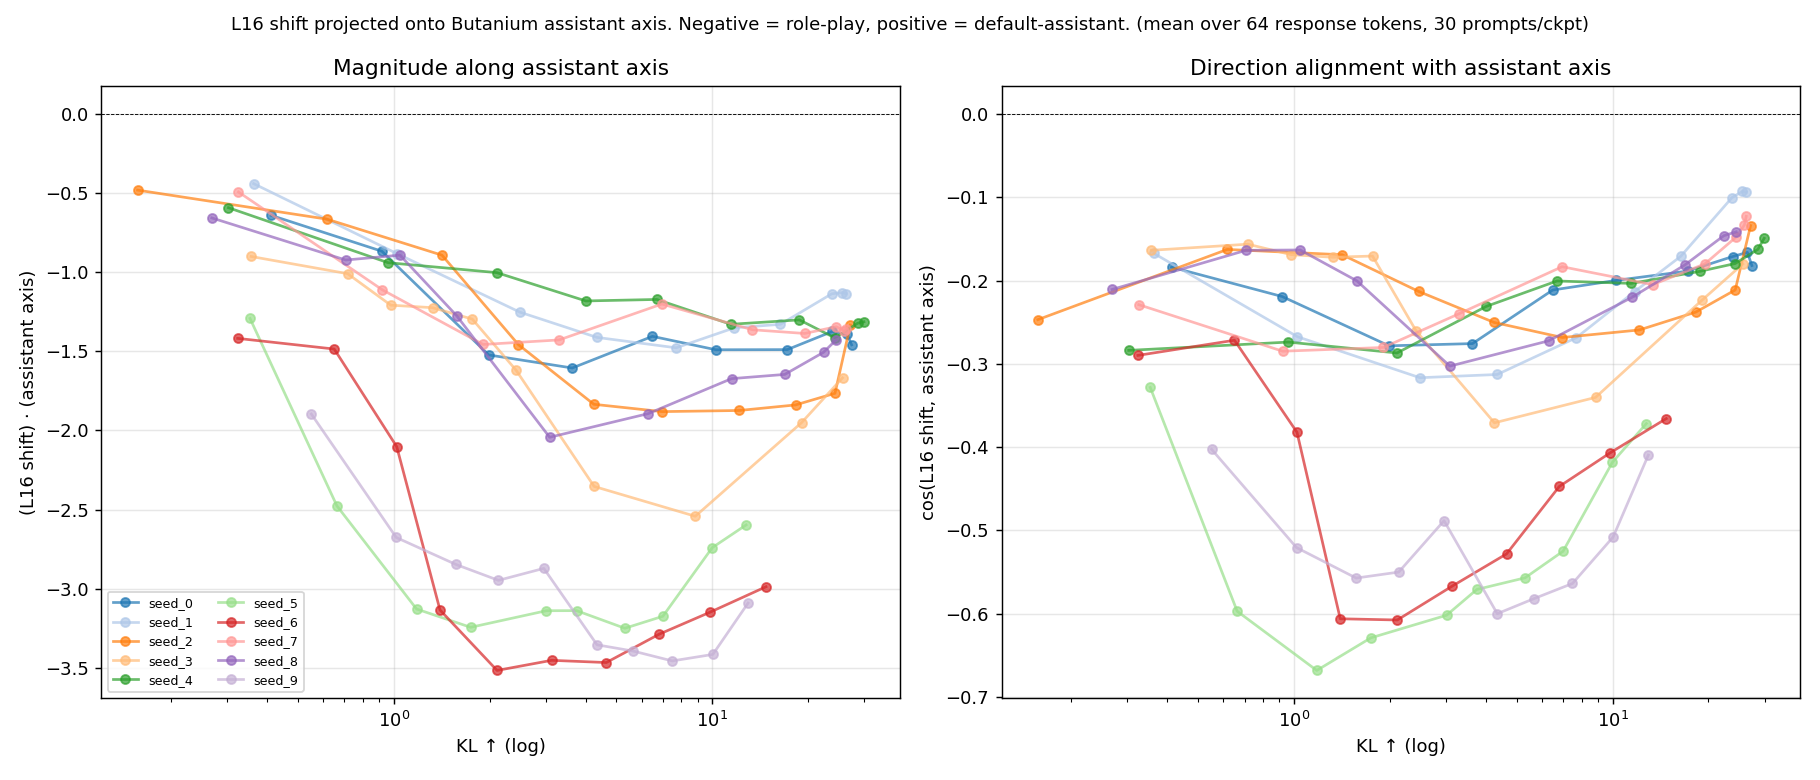
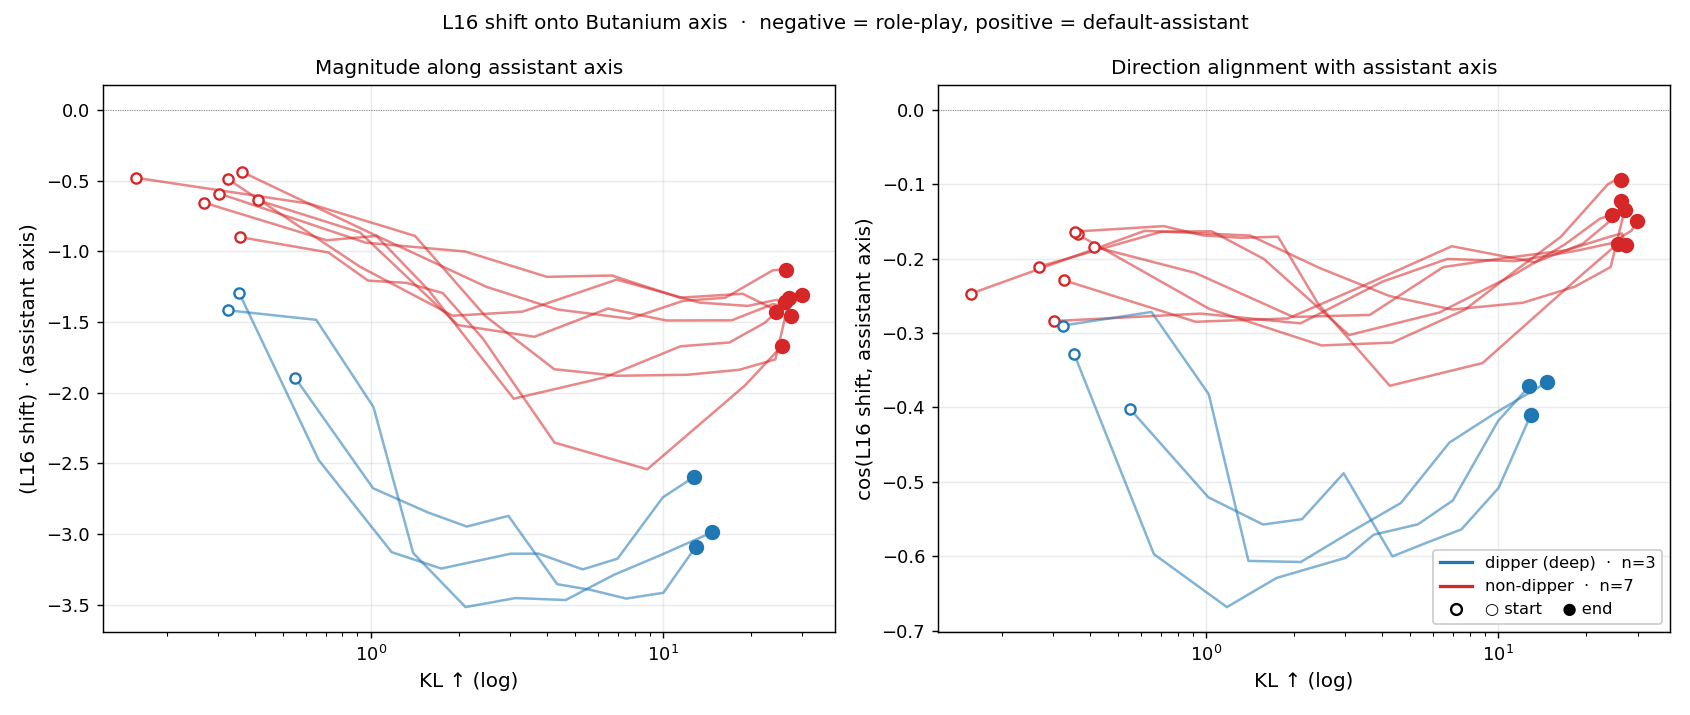
Add scripts/replot_axis.py + restyle existing axis.png files
axis.json already carries every value the figure needs, so re-rendering
with the new style needs no GPU pass — just a quick replot script that
loads the JSON and feeds it through the shared plot_style helpers.
Restyles all 9 axis.png files (qwen, llama, frame conditions, llama_rng).

diff --git a/scripts/replot_axis.py b/scripts/replot_axis.py
@@ -1,0 +1,90 @@
+"""Re-render axis.png from an existing axis.json.
+
+The full csp_div.analyze_assistant_axis pipeline does a GPU eval pass to
+*generate* axis.json. Once that data exists, the figure is just a function
+of the JSON — re-rendering with a new style needs no GPU.
+
+Usage:
+  python scripts/replot_axis.py results/qwen/axis.json
+  python scripts/replot_axis.py results/qwen/axis.json results/llama/axis.json ...
+"""
+import argparse
+import json
+import os
+
+import matplotlib
+matplotlib.use("Agg")
+import matplotlib.pyplot as plt
+
+from csp_div.plot_style import (
+    basin_color, basin_legend, draw_endpoints, draw_trajectory,
+    style_kl_axis, trajectory_basin,
+)
+
+
+def replot(axis_json_path, out_path=None):
+    if out_path is None:
+        out_path = axis_json_path.replace(".json", ".png")
+
+    with open(axis_json_path) as f:
+        d = json.load(f)
+    rows = d["rows"]
+    layer = d["layer"]
+
+    by_group = {}
+    for r in rows:
+        by_group.setdefault(r["group"], []).append(r)
+    for g in by_group:
+        by_group[g].sort(key=lambda r: r["step"])
+
+    group_basins = {
+        g: trajectory_basin([(r["kl"], r["proj_cos"], r["step"]) for r in rs])
+        for g, rs in by_group.items()
+    }
+    n_dippers = sum(1 for b in group_basins.values() if b == "deep")
+    n_nondippers = len(group_basins) - n_dippers
+
+    fig, axes = plt.subplots(1, 2, figsize=(13, 5.5))
+    for basin_filter, zorder in [(lambda b: b != "deep", 2),
+                                 (lambda b: b == "deep", 3)]:
+        for g, rs in sorted(by_group.items()):
+            if not basin_filter(group_basins[g]):
+                continue
+            color = basin_color(group_basins[g])
+            kls = [r["kl"] for r in rs]
+            dots = [r["proj_dot"] for r in rs]
+            coss = [r["proj_cos"] for r in rs]
+            draw_trajectory(axes[0], kls, dots, color, zorder=zorder)
+            draw_endpoints(axes[0], kls, dots, color, zorder=zorder + 2)
+            draw_trajectory(axes[1], kls, coss, color, zorder=zorder)
+            draw_endpoints(axes[1], kls, coss, color, zorder=zorder + 2)
+
+    style_kl_axis(axes[0], ylabel=f"(L{layer} shift) · (assistant axis)")
+    style_kl_axis(axes[1], ylabel=f"cos(L{layer} shift, assistant axis)")
+    axes[0].set_title("Magnitude along assistant axis", fontsize=11)
+    axes[1].set_title("Direction alignment with assistant axis", fontsize=11)
+    basin_legend(axes[1], n_dippers, n_nondippers, loc="lower right")
+    fig.suptitle(
+        f"L{layer} shift onto Butanium axis  ·  "
+        f"negative = role-play, positive = default-assistant",
+        fontsize=11,
+    )
+    plt.tight_layout()
+
+    os.makedirs(os.path.dirname(out_path) or ".", exist_ok=True)
+    plt.savefig(out_path, dpi=130)
+    plt.close(fig)
+    print(f"Saved: {out_path}")
+
+
+def main():
+    parser = argparse.ArgumentParser()
+    parser.add_argument("axis_json", nargs="+",
+                        help="One or more axis.json paths. PNG is written next to each.")
+    args = parser.parse_args()
+    for p in args.axis_json:
+        replot(p)
+
+
+if __name__ == "__main__":
+    main()
